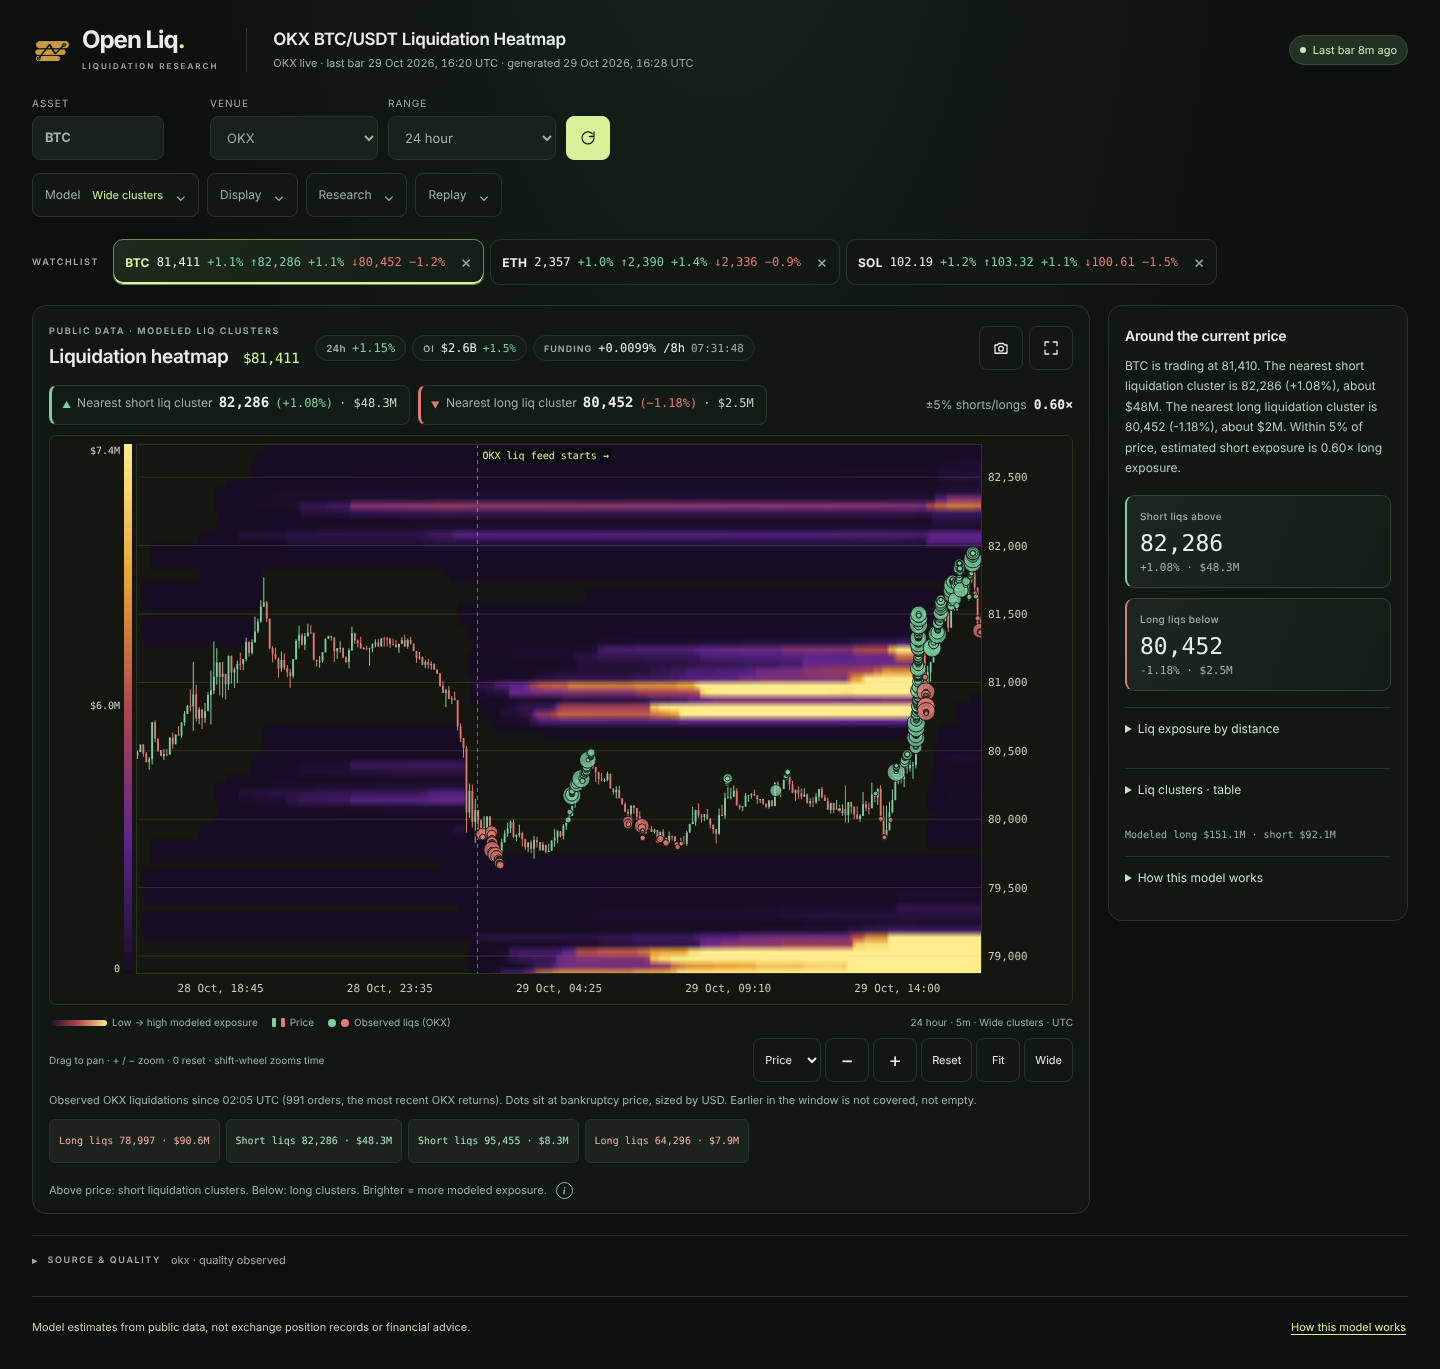
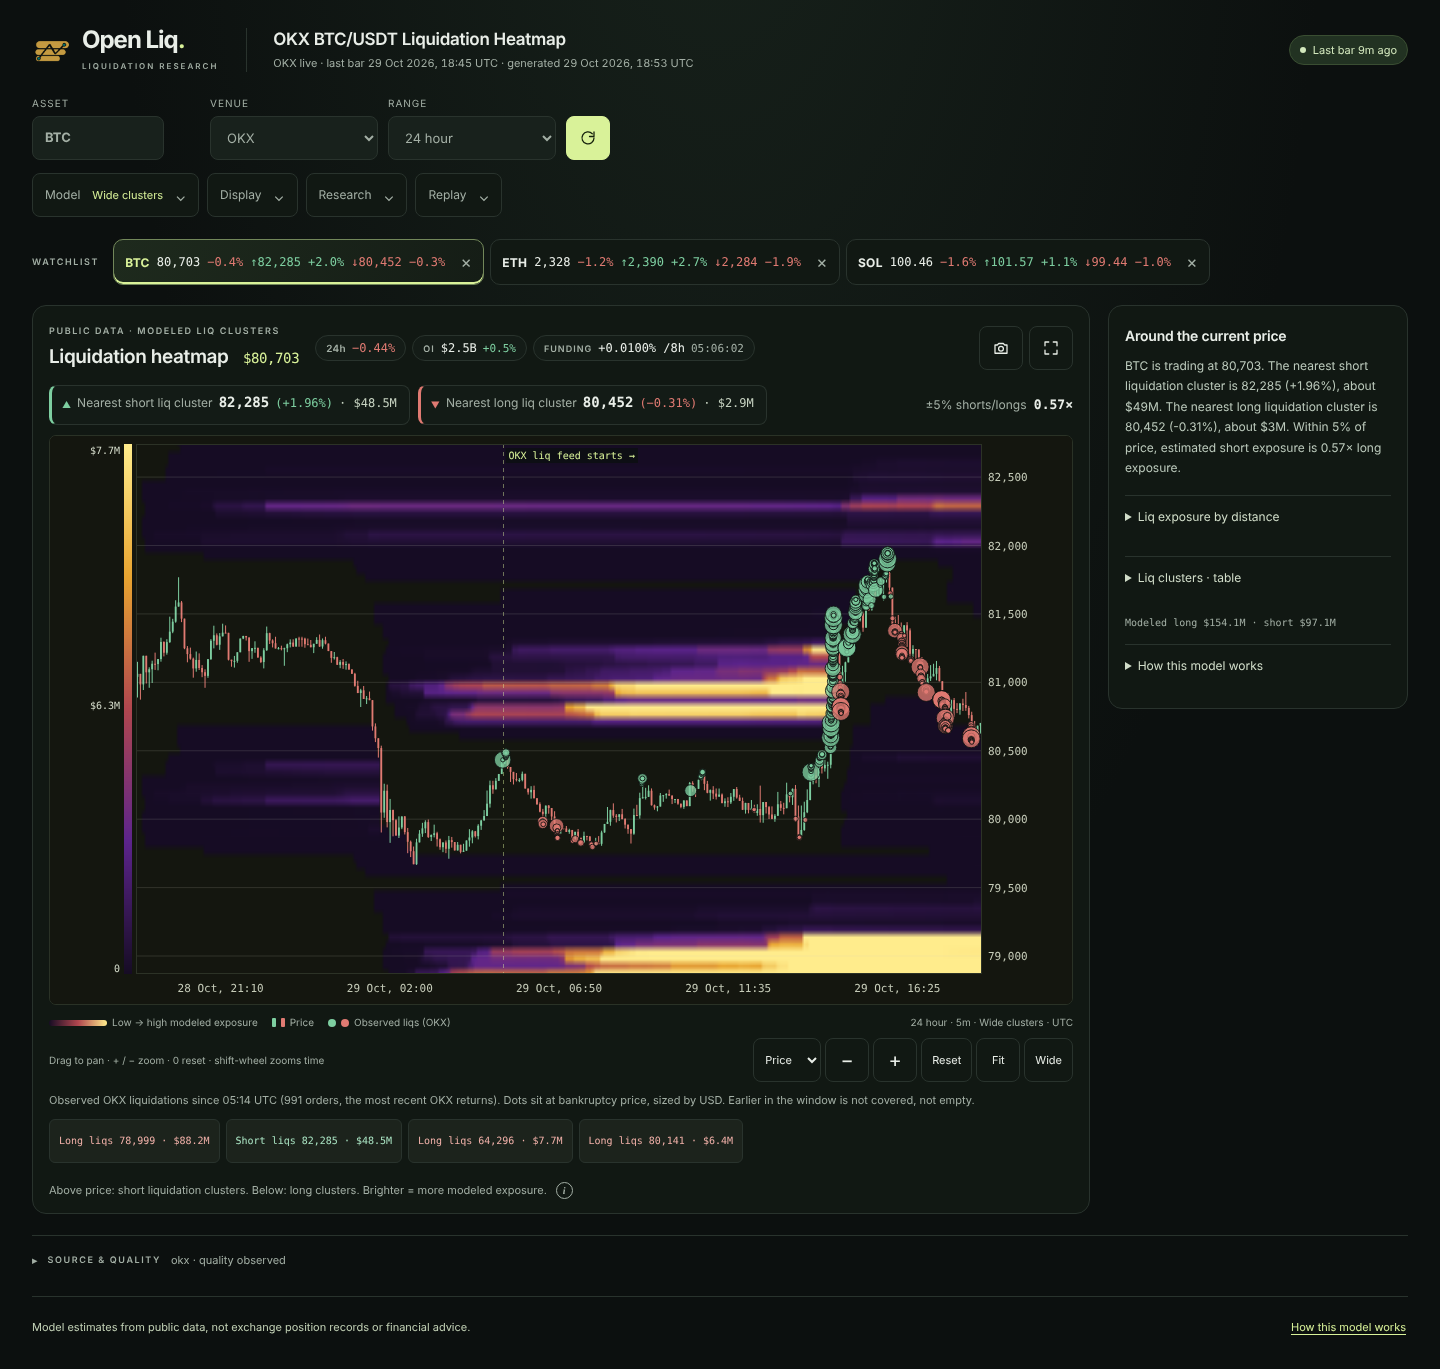
docs: recapture README screenshots without the removed cluster cards
Desktop and phone from live OKX BTC/USDT, replay from the Binance
archive at the same frame as before. The README notes that watchlist
values are live, so a replay shows dashes.

Claude-Session: https://claude.ai/code/session_01CL4afBdq1ciUDAZsLUM8Vt

diff --git a/README.md b/README.md
@@ -82,7 +82,7 @@ On Windows, create the environment with `py -3 -m venv .venv`, then activate it 
 3. **Read the line above the chart.** It names the nearest short cluster above price and the nearest long cluster below, with each one's distance in percent and estimated size in USD. It also gives the ratio of short to long exposure within ±5% of price.
 4. **Check the dots.** Dots are real, filled OKX liquidation orders, not model output. **Red dots are longs that were liquidated. Green dots are shorts that were liquidated.** Each dot sits at OKX's reported bankruptcy price. Dots appear on OKX and All venues views. Binance and Bybit publish liquidations only over live streams, which Open Liq does not read. OKX keeps only about the last day of orders, so a dashed line marks where the dots begin.
 5. **Check the market strip.** It shows open interest, the change in open interest and in price over the window, the current funding rate and the countdown to the next funding. Open interest is in USD, so it also rises and falls with price. Compare the two changes before reading new positions into it.
-6. **Scan the watchlist.** Track up to six coins, each with its price, price change and nearest short and long clusters.
+6. **Scan the watchlist.** Track up to six coins, each with its price, price change and nearest short and long clusters. Its values are live, so a replay or past view shows —.
 7. **Replay a move.** The Replay panel steps through the **Last 24h**, **3 days** or **7 days** from the Binance archive. Price and modeled exposure appear together as each bar arrives.
 8. **Set an alert (optional).** Choose a distance in percent. When price comes within it of the nearest cluster, the page shows a message and, if you allow it, a browser notification. The alert runs in the open page only.
 
